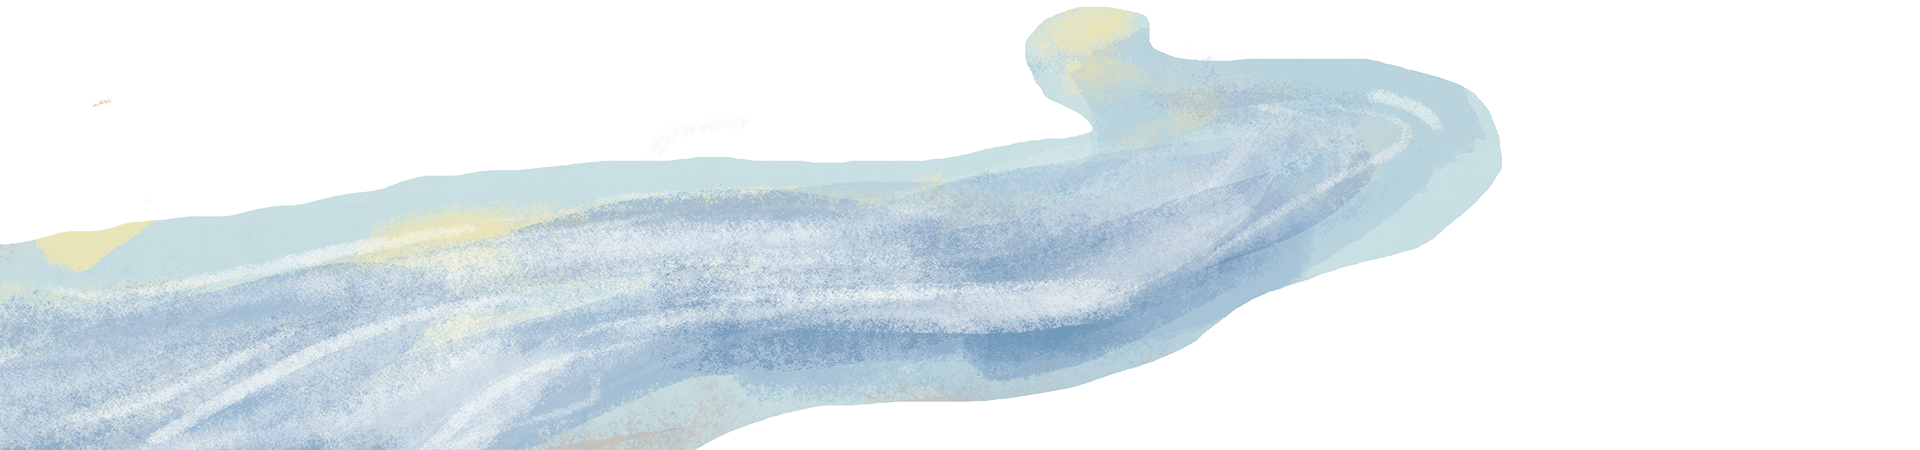
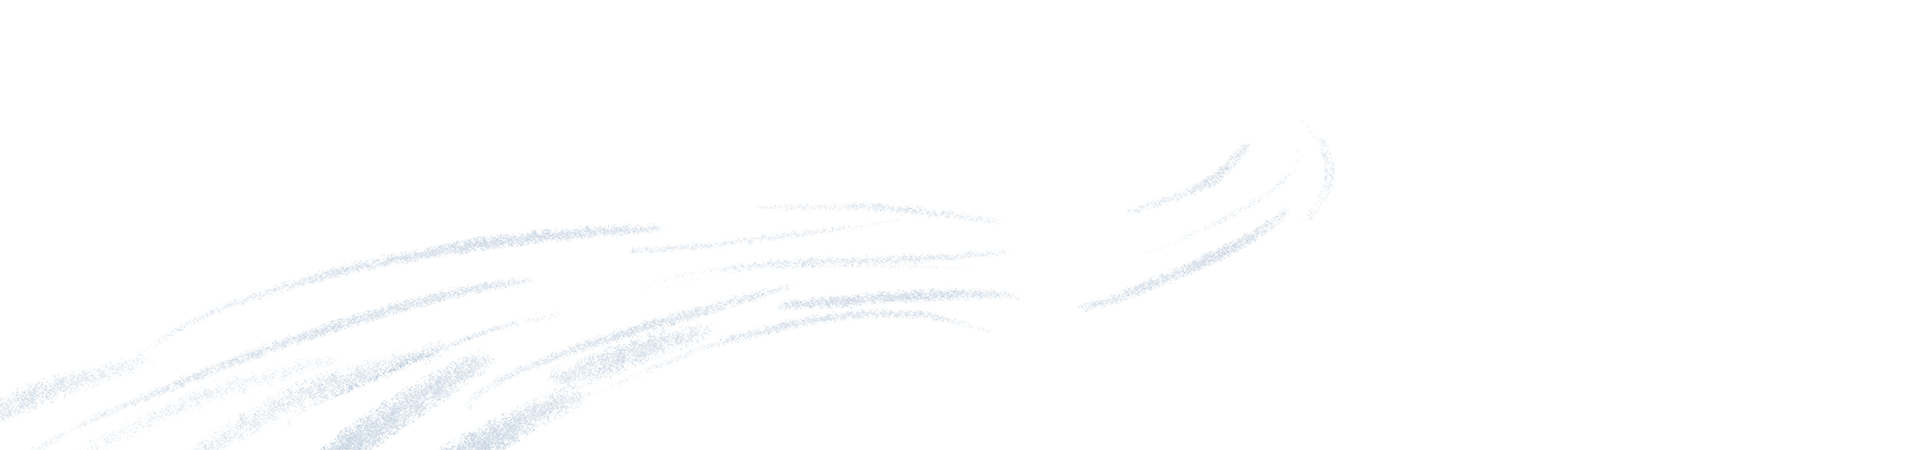
add river animation

diff --git a/js/game/game2-scene3.js b/js/game/game2-scene3.js
@@ -1,5 +1,5 @@
 // quick access / buffer
-var s3_cloud1, s3_cloud2, s3_cloud3, s3_cloud4;
+var s3_cloud1, s3_cloud2, s3_cloud3, s3_cloud4, s3_river1, s3_river2, s3_river3;
 var s3_grass, s3_mushroom1, s3_mushroom2 ,s3_flower1, s3_flower3, s3_flower4;
 var s3_duck1, s3_duck2, s3_duck3, s3_duck4, s3_rabbit1, s3_rabbit2;
 // var s3_rabbitPosX, s3_rabbitPosY;
@@ -8,7 +8,10 @@ function InitializeGameScene3() {
     gameAssetLibrary = new AssetLibrary({
         "game2-scene3-sky": {image:"img/game2/game2-scene3-sky-min.png"},
         "game2-scene3-bg": {image:"img/game2/game2-scene3-bg-min.png"},
+        "game2-scene3-river": {image:"img/game2/game2-scene3-river-min.png"},
         "game2-scene3-river1": {image:"img/game2/game2-scene3-river1-min.png"},
+        "game2-scene3-river2": {image:"img/game2/game2-scene3-river2-min.png"},
+        "game2-scene3-river3": {image:"img/game2/game2-scene3-river3-min.png"},
         "game2-scene3-cloud1": {image:"img/game2/game2-scene3-cloud1-min.png"},
         "game2-scene3-cloud2": {image:"img/game2/game2-scene3-cloud2-min.png"},
         "game2-scene3-cloud3": {image:"img/game2/game2-scene3-cloud3-min.png"},
@@ -40,7 +43,10 @@ function StartGameScene3() {
         "s3_cloud2": {transform:{posX:737, posY:0, sizeX:504, sizeY:88},bitmap:gameAssetLibrary.data["game2-scene3-cloud2"]},
         "s3_cloud3": {transform:{posX:710, posY:232, sizeX:728, sizeY:263},bitmap:gameAssetLibrary.data["game2-scene3-cloud3"]},
         "s3_cloud4": {transform:{posX:1350, posY:60, sizeX:501, sizeY:193},bitmap:gameAssetLibrary.data["game2-scene3-cloud4"]},
+        "s3_river": {transform:{posX:0, posY:630, sizeX:1920, sizeY:450},bitmap:gameAssetLibrary.data["game2-scene3-river"]},
         "s3_river1": {transform:{posX:0, posY:630, sizeX:1920, sizeY:450},bitmap:gameAssetLibrary.data["game2-scene3-river1"]},
+        "s3_river2": {transform:{posX:0, posY:630, sizeX:1920, sizeY:450},bitmap:gameAssetLibrary.data["game2-scene3-river2"]},
+        "s3_river3": {transform:{posX:0, posY:630, sizeX:1920, sizeY:450},bitmap:gameAssetLibrary.data["game2-scene3-river3"]},
         "s3_bg": {transform:{posX:0, posY:0, sizeX:1920, sizeY:1080},bitmap:gameAssetLibrary.data["game2-scene3-bg"]},
         "s3_grass": {transform:{posX:0, posY:1080, sizeX:1920, sizeY:448, anchorX:0, anchorY:1},bitmap:gameAssetLibrary.data["game2-scene3-grass"]},
         "s3_flower1": {transform:{posX:142, posY:728+110, sizeX:480, sizeY:110, anchorX: 0, anchorY: 1},bitmap:gameAssetLibrary.data["game2-scene1-flower1"]},
@@ -53,6 +59,9 @@ function StartGameScene3() {
     s3_cloud2 = gameObjectLibrary.data["s3_cloud2"];
     s3_cloud3 = gameObjectLibrary.data["s3_cloud3"];
     s3_cloud4 = gameObjectLibrary.data["s3_cloud4"];
+    s3_river1 = gameObjectLibrary.data["s3_river1"];
+    s3_river2 = gameObjectLibrary.data["s3_river2"];
+    s3_river3 = gameObjectLibrary.data["s3_river3"];
     s3_grass = gameObjectLibrary.data["s3_grass"];
     s3_duck1 = gameObjectLibrary.data["s3_duck1"];
     s3_duck1.SetupAnimation([
@@ -140,6 +149,9 @@ function LoopGameScene3(_evt) {
     s3_cloud2.SetPosition({posX:737-time*3});
     s3_cloud3.SetPosition({posX:710-time*5});
     s3_cloud4.SetPosition({posX:1350-time*12});
+    s3_river1.renderer.alpha = (Math.sin(time*10) + 1) * 0.5;
+    s3_river2.renderer.alpha = (Math.sin(time*10 + Math.PI * 0.666) + 1) * 0.5;
+    s3_river2.renderer.alpha = (Math.sin(time*10 + Math.PI * 1.333) + 1) * 0.5;
 
     s3_flower1.renderer.skewX = Math.sin(time * 0.6 + 1) * 14;
     s3_flower3.renderer.skewX = Math.sin(time * 0.3 + 3) * 25;
